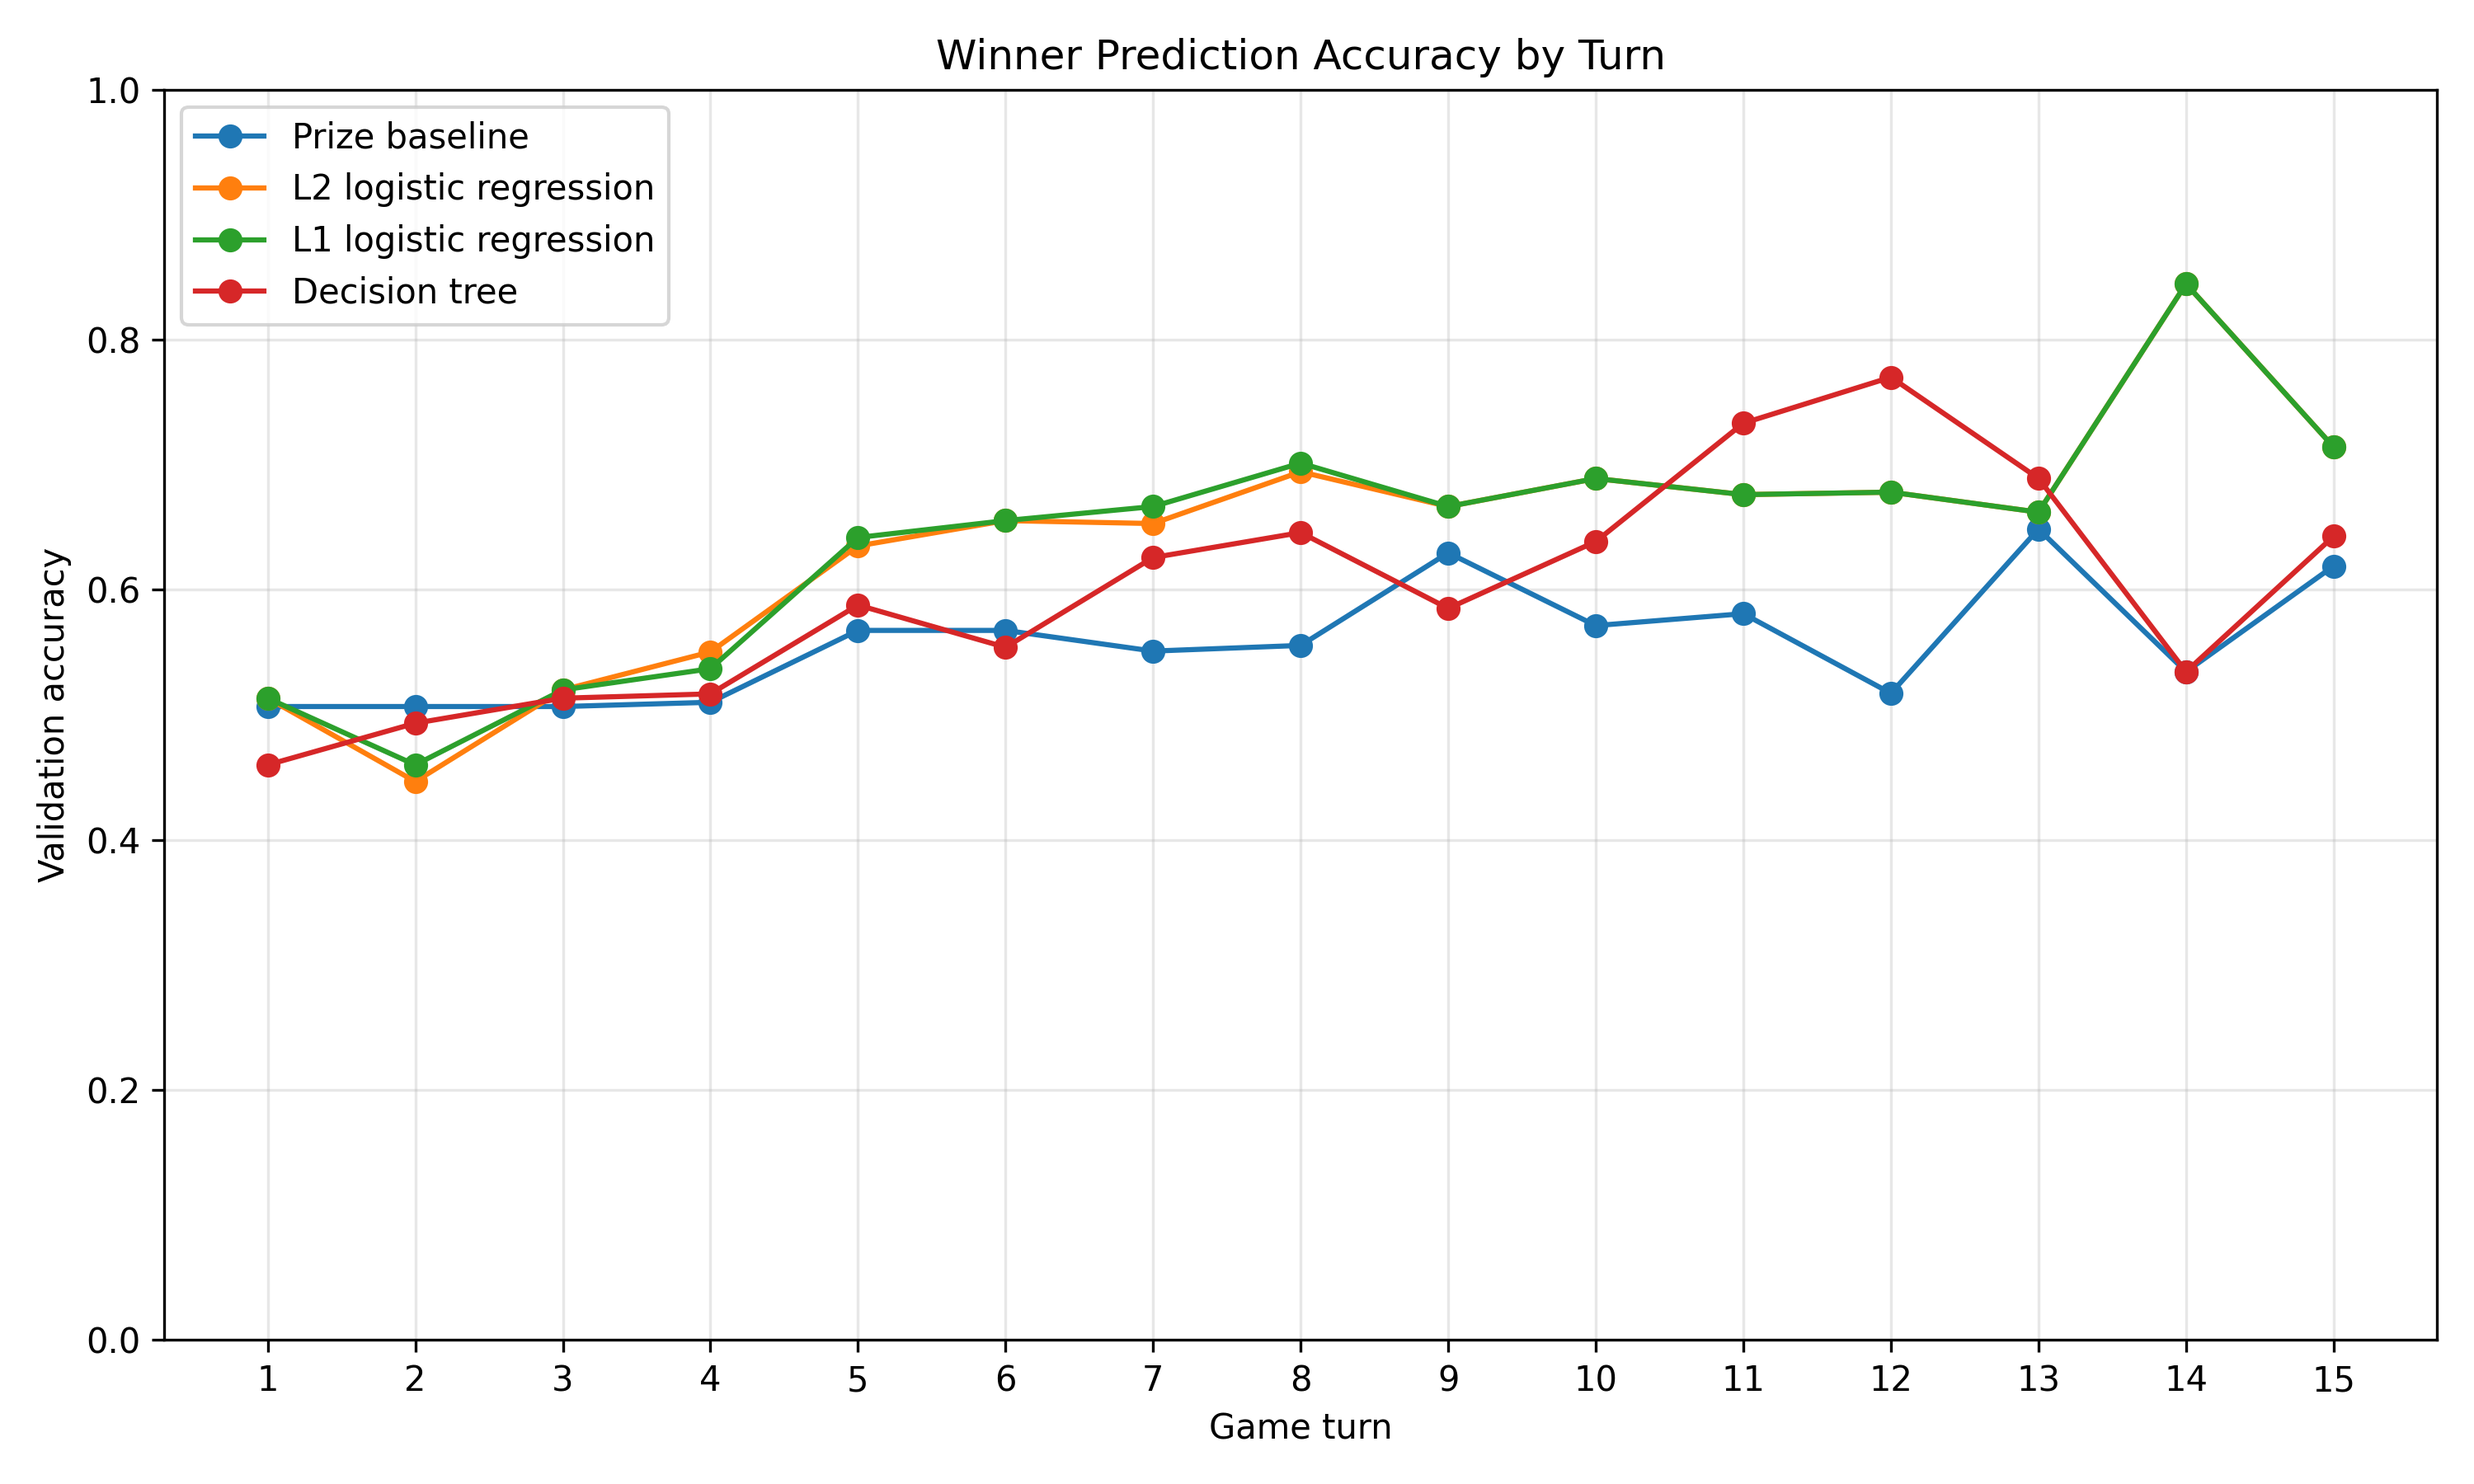
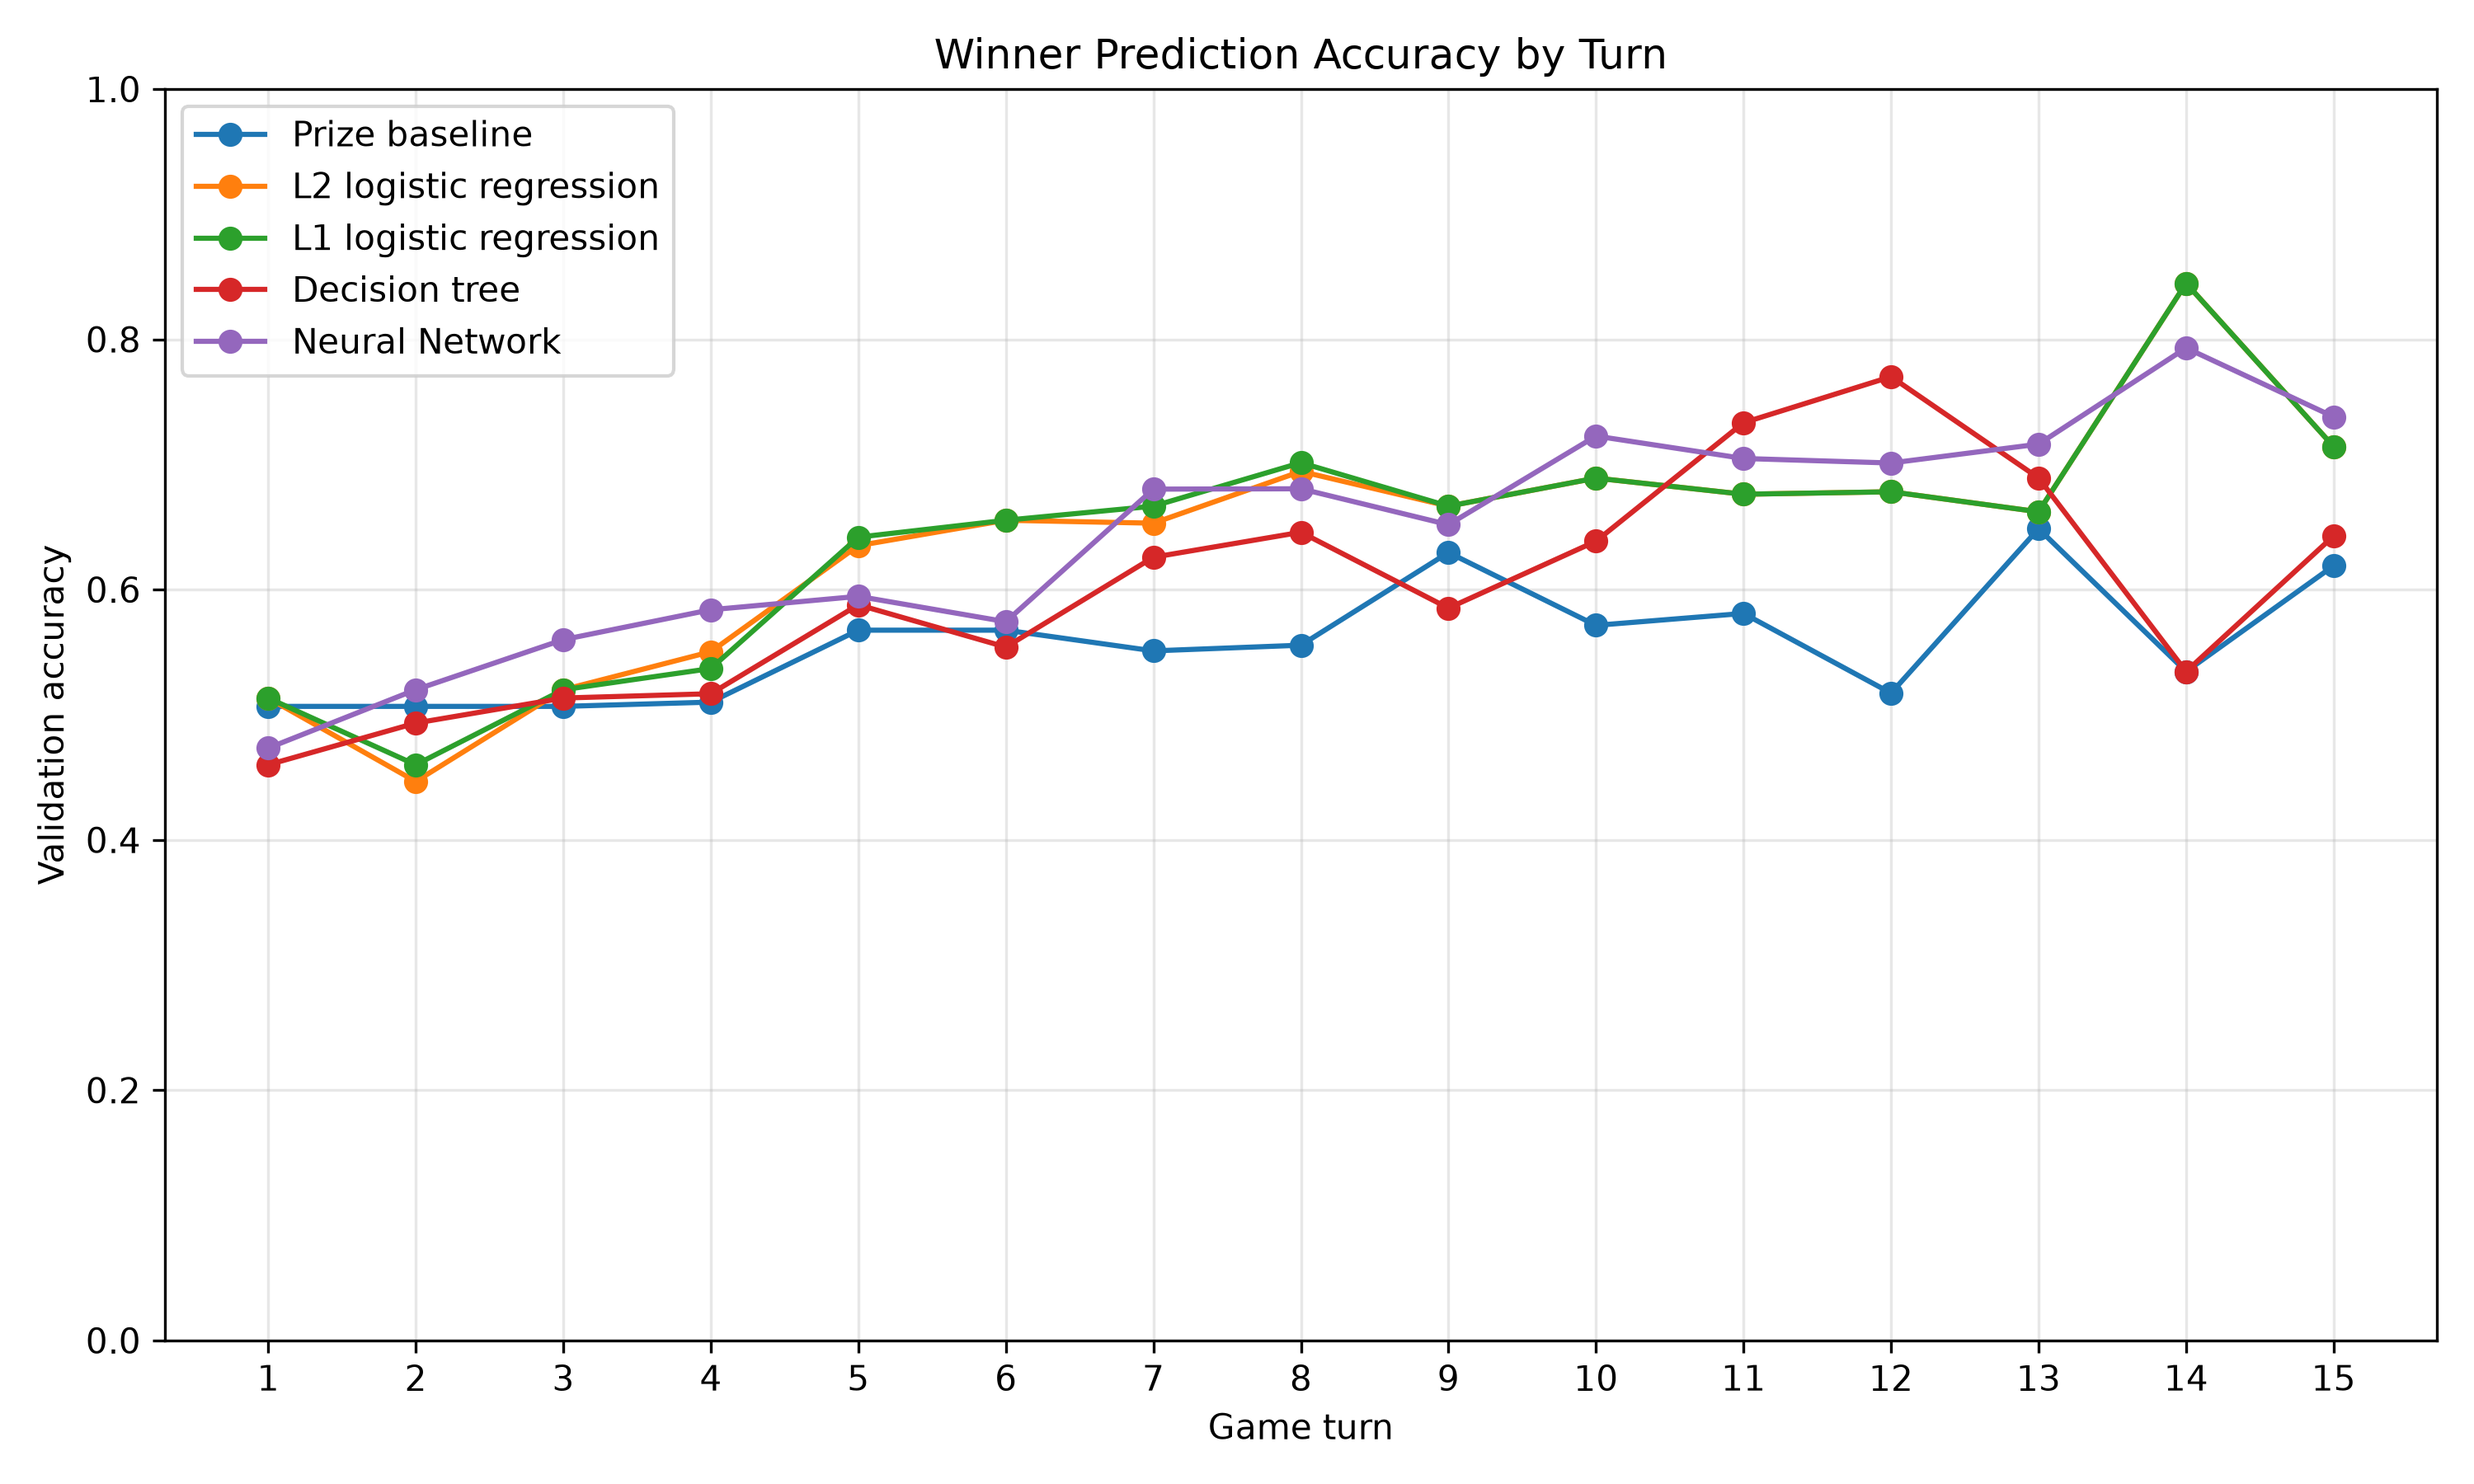
Add TensorFlow neural network with early stopping

diff --git a/src/models.py b/src/models.py
@@ -1,6 +1,6 @@
 """
 models.py — Model training and experiments for Pokémon TCG winner prediction.
-Owner: Dominic
+Owner: Dom
 
 What is in here:
   1. Prize-card baseline
@@ -17,6 +17,7 @@ Run from the repository root:
 Results are saved in results/.
 """
 
+import tensorflow as tf
 from pathlib import Path
 import numpy as np
 import pandas as pd
@@ -67,7 +68,48 @@ def train_tree(X_train, y_train, max_depth=3):
      model.fit(X_train, y_train)
      
      return model
+
+def train_neural_network(X_train, y_train):
+     """
+     Train a small neural network using game-state features.
+     """
+     tf.keras.utils.set_random_seed(42)
      
+     model = tf.keras.Sequential([
+          tf.keras.layers.Input(shape=(X_train.shape[1],)),
+          tf.keras.layers.Dense(16, activation="relu"),
+          tf.keras.layers.Dense(1, activation="sigmoid")
+     ])
+     
+     model.compile(
+          optimizer="adam",
+          loss="binary_crossentropy",
+          metrics=["accuracy"]
+     )
+     
+     rng = np.random.default_rng(42)
+     indices = rng.permutation(len(X_train))
+     
+     X_train = X_train[indices]
+     y_train = np.asarray(y_train)[indices]
+     
+     model.fit(
+          X_train,
+          y_train, 
+          epochs=100,
+          batch_size=32,
+          validation_split=0.2,
+          callbacks=[
+               tf.keras.callbacks.EarlyStopping(
+                    monitor="val_loss",
+                    patience=10,
+                    restore_best_weights=True
+               )
+          ],
+          verbose=0
+     )
+     
+     return model
  
 def main():
      # Load processed game states
@@ -142,6 +184,19 @@ def main():
           tree_model = train_tree(train[full_features], y_train)
           tree_predictions = tree_model.predict(val[full_features])
           
+          # Scale features for the neural network
+          scaler = StandardScaler()
+          
+          X_train_scaled = scaler.fit_transform(train[full_features])
+          X_val_scaled = scaler.transform(val[full_features])
+          
+          # Train neural network
+          nn_model = train_neural_network(X_train_scaled, y_train)
+          
+          # Predict probabilities and convert to 0/1 labels
+          nn_probabilities = nn_model.predict(X_val_scaled, verbose=0)
+          nn_predictions = (nn_probabilities.ravel() >= 0.5).astype(int)
+          
           # Store logistic regression coefficients
           if turn in selected_turns:
                coefficients = full_model.named_steps["logisticregression"].coef_[0]
@@ -165,6 +220,7 @@ def main():
           full_accuracy = np.mean(full_predictions == y_val)
           tree_accuracy = np.mean(tree_predictions == y_val)
           l1_accuracy = np.mean(l1_predictions == y_val)
+          nn_accuracy = np.mean(nn_predictions == y_val)
           
           # Store accuracy results
           accuracy_rows.append({
@@ -175,7 +231,8 @@ def main():
                "prize_logistic": prize_accuracy,
                "l2_logistic": full_accuracy,
                "l1_logistic": l1_accuracy,
-               "decision_tree": tree_accuracy
+               "decision_tree": tree_accuracy,
+               "neural_network": nn_accuracy
           })
           
           # Feature ablation experiments
@@ -272,7 +329,6 @@ def main():
      print(accuracy_df.round(3).to_string(index=False))
      print("\nSaved to results/model_accuracy.csv")
           
-               
                
 if __name__ == "__main__":
     main()

diff --git a/src/plot_results.py b/src/plot_results.py
@@ -29,7 +29,8 @@ def plot_accuracy():
         "prize_baseline": "Prize baseline",
         "l2_logistic": "L2 logistic regression",
         "l1_logistic": "L1 logistic regression",
-        "decision_tree": "Decision tree"
+        "decision_tree": "Decision tree",
+        "neural_network": "Neural Network"
     }
 
     for column, label in models.items():
